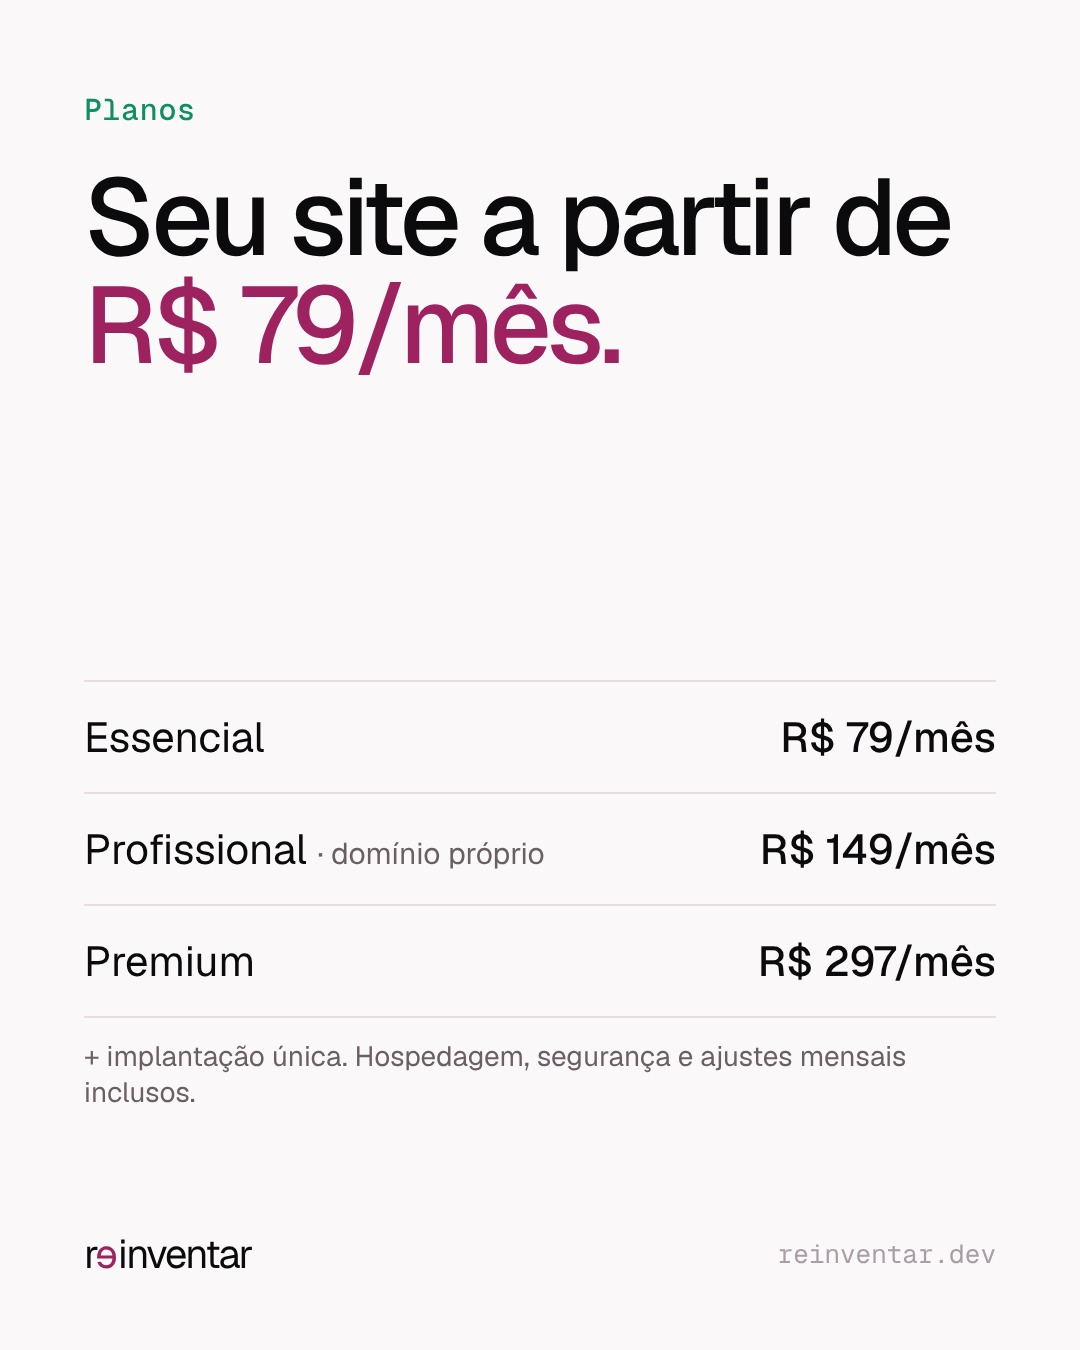
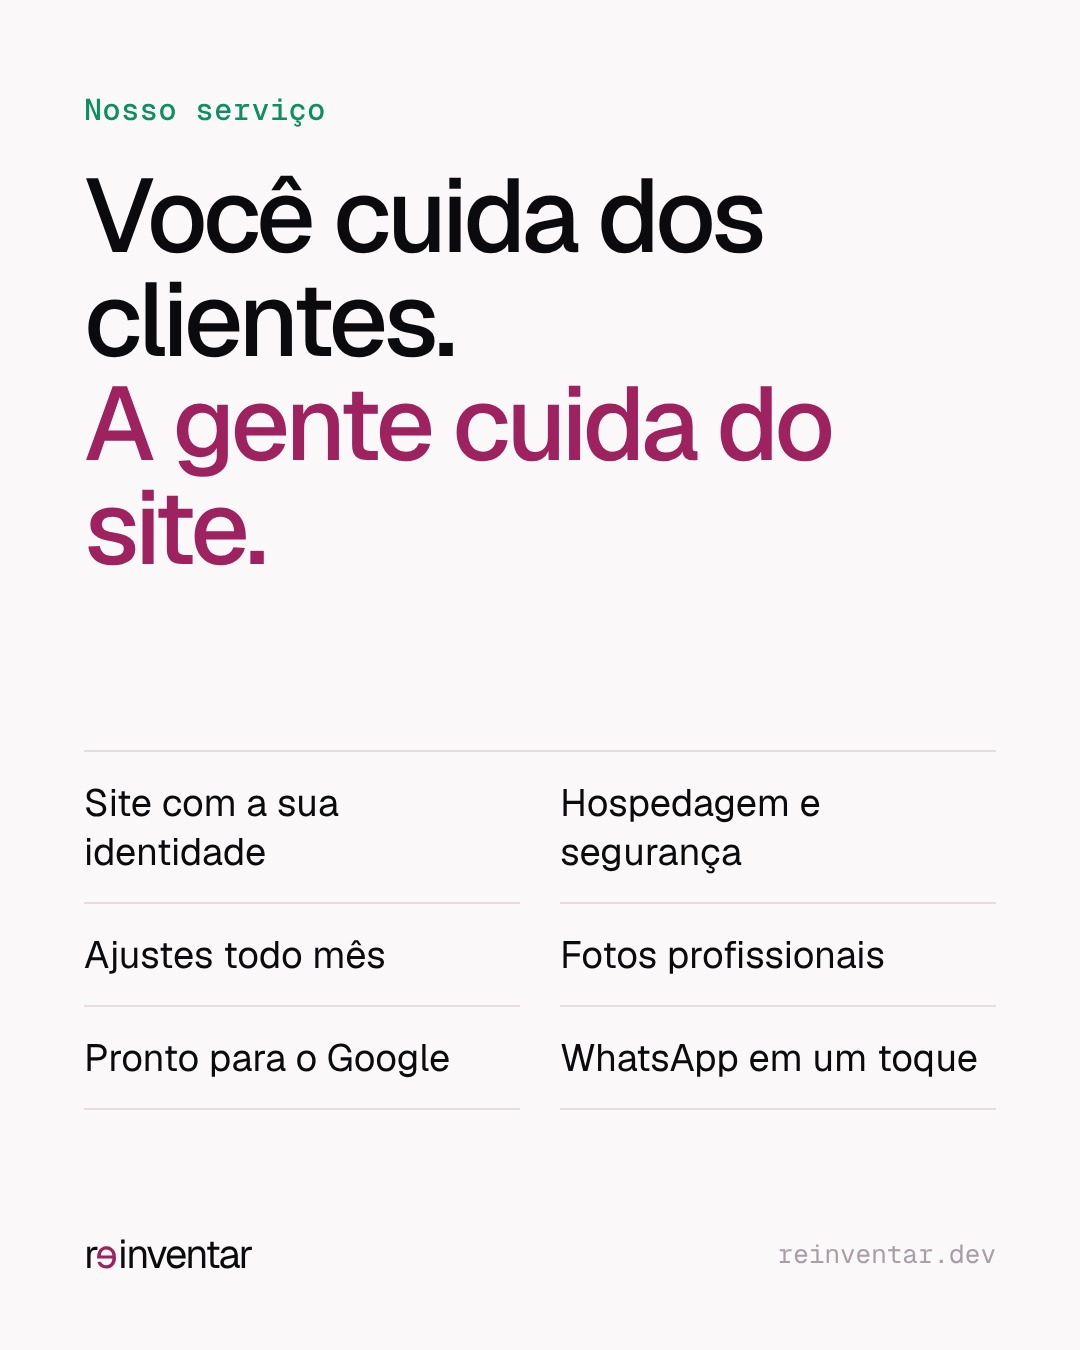
Instagram: sem preços; post e destaque de serviço no lugar de planos
Claude-Session: https://claude.ai/code/session_01TVbN2DAzo3WbtBA4BrJQRF

diff --git a/marketing/instagram/modelo-posts.html b/marketing/instagram/modelo-posts.html
@@ -44,7 +44,7 @@ h1,h2{font-weight:500;letter-spacing:-.04em;line-height:1}
 <div class="art hl" id="hl-modelos" style="display:grid;place-items:center"><svg viewBox="0 0 100 100" fill="none" stroke="#F4C9DA" stroke-width="4" style="width:420px"><rect x="14" y="14" width="30" height="30" rx="4"/><rect x="56" y="14" width="30" height="30" rx="4" stroke="#D94F8A"/><rect x="14" y="56" width="30" height="30" rx="4" stroke="#22C58B"/><rect x="56" y="56" width="30" height="30" rx="4"/></svg></div>
 <div class="art hl" id="hl-clientes" style="display:grid;place-items:center"><svg viewBox="0 0 100 100" fill="none" stroke-width="4" style="width:420px"><path d="M14 38V14H38M62 86H86V62" stroke="#22C58B"/><path d="M34 52l12 12 22-26" stroke="#F4C9DA" stroke-linecap="round" stroke-linejoin="round"/></svg></div>
 <div class="art hl" id="hl-como" style="display:grid;place-items:center"><svg viewBox="0 0 100 100" fill="none" stroke-width="4" style="width:420px"><circle cx="20" cy="50" r="8" stroke="#22C58B"/><circle cx="50" cy="50" r="8" stroke="#D94F8A"/><circle cx="80" cy="50" r="8" fill="#F4C9DA" stroke="#F4C9DA"/><path d="M28 50h14M58 50h14" stroke="#A99DA6"/></svg></div>
-<div class="art hl" id="hl-planos" style="display:grid;place-items:center"><svg viewBox="0 0 100 100" fill="none" stroke-width="4" style="width:420px"><path d="M18 20h34l30 30-32 32-32-30z" stroke="#F4C9DA" stroke-linejoin="round"/><circle cx="36" cy="38" r="6" stroke="#22C58B"/></svg></div>
+<div class="art hl" id="hl-servico" style="display:grid;place-items:center"><svg viewBox="0 0 100 100" fill="none" stroke-width="4" style="width:420px"><rect x="12" y="20" width="76" height="50" rx="6" stroke="#F4C9DA"/><path d="M38 84h24M50 70v14" stroke="#F4C9DA" stroke-linecap="round"/><path d="M36 45l9 9 19-19" stroke="#22C58B" stroke-linecap="round" stroke-linejoin="round"/></svg></div>
 <div class="art hl" id="hl-contato" style="display:grid;place-items:center"><svg viewBox="0 0 100 100" fill="none" stroke-width="4" style="width:420px"><path d="M18 82l5-16A34 34 0 1 1 36 79z" stroke="#F4C9DA" stroke-linejoin="round"/><path d="M38 40c2 9 8 16 18 20l5-5 9 4c-1 6-6 9-11 8-14-3-25-14-27-28-1-5 2-10 8-11l4 9z" fill="#22C58B"/></svg></div>
 
 <!-- P1 manifesto -->
@@ -113,15 +113,17 @@ h1,h2{font-weight:500;letter-spacing:-.04em;line-height:1}
   <div class="pe"><span class="word">r<span class="e">e</span>inventar</span><span>igoraugusto.reinventar.dev</span></div>
 </div>
 
-<!-- P8 planos -->
+<!-- P8 servico -->
 <div class="art post claro" id="p8">
-  <span class="k">Planos</span>
-  <h1 style="font-size:108px;margin-top:34px">Seu site a partir de<br><span style="color:var(--vinho)">R$ 79/mês.</span></h1>
-  <div style="margin-top:auto;margin-bottom:150px;display:flex;flex-direction:column;gap:0;border-top:2px solid #E6DDE1">
-    <div style="display:flex;justify-content:space-between;padding:28px 0;border-bottom:2px solid #E6DDE1;font-size:42px"><span>Essencial</span><b style="font-weight:500">R$ 79/mês</b></div>
-    <div style="display:flex;justify-content:space-between;padding:28px 0;border-bottom:2px solid #E6DDE1;font-size:42px"><span>Profissional <span class="m" style="font-size:30px">· domínio próprio</span></span><b style="font-weight:500">R$ 149/mês</b></div>
-    <div style="display:flex;justify-content:space-between;padding:28px 0;border-bottom:2px solid #E6DDE1;font-size:42px"><span>Premium</span><b style="font-weight:500">R$ 297/mês</b></div>
-    <p class="m" style="font-size:28px;margin-top:20px">+ implantação única. Hospedagem, segurança e ajustes mensais inclusos.</p>
+  <span class="k">Nosso serviço</span>
+  <h1 style="font-size:104px;margin-top:34px">Você cuida dos clientes.<br><span style="color:var(--vinho)">A gente cuida do site.</span></h1>
+  <div style="margin-top:auto;margin-bottom:150px;display:grid;grid-template-columns:1fr 1fr;gap:0 40px;border-top:2px solid #E6DDE1">
+    <div style="padding:26px 0;border-bottom:2px solid #E6DDE1;font-size:38px">Site com a sua identidade</div>
+    <div style="padding:26px 0;border-bottom:2px solid #E6DDE1;font-size:38px">Hospedagem e segurança</div>
+    <div style="padding:26px 0;border-bottom:2px solid #E6DDE1;font-size:38px">Ajustes todo mês</div>
+    <div style="padding:26px 0;border-bottom:2px solid #E6DDE1;font-size:38px">Fotos profissionais</div>
+    <div style="padding:26px 0;border-bottom:2px solid #E6DDE1;font-size:38px">Pronto para o Google</div>
+    <div style="padding:26px 0;border-bottom:2px solid #E6DDE1;font-size:38px">WhatsApp em um toque</div>
   </div>
   <div class="pe"><span class="word">r<span class="e">e</span>inventar</span><span>reinventar.dev</span></div>
 </div>
